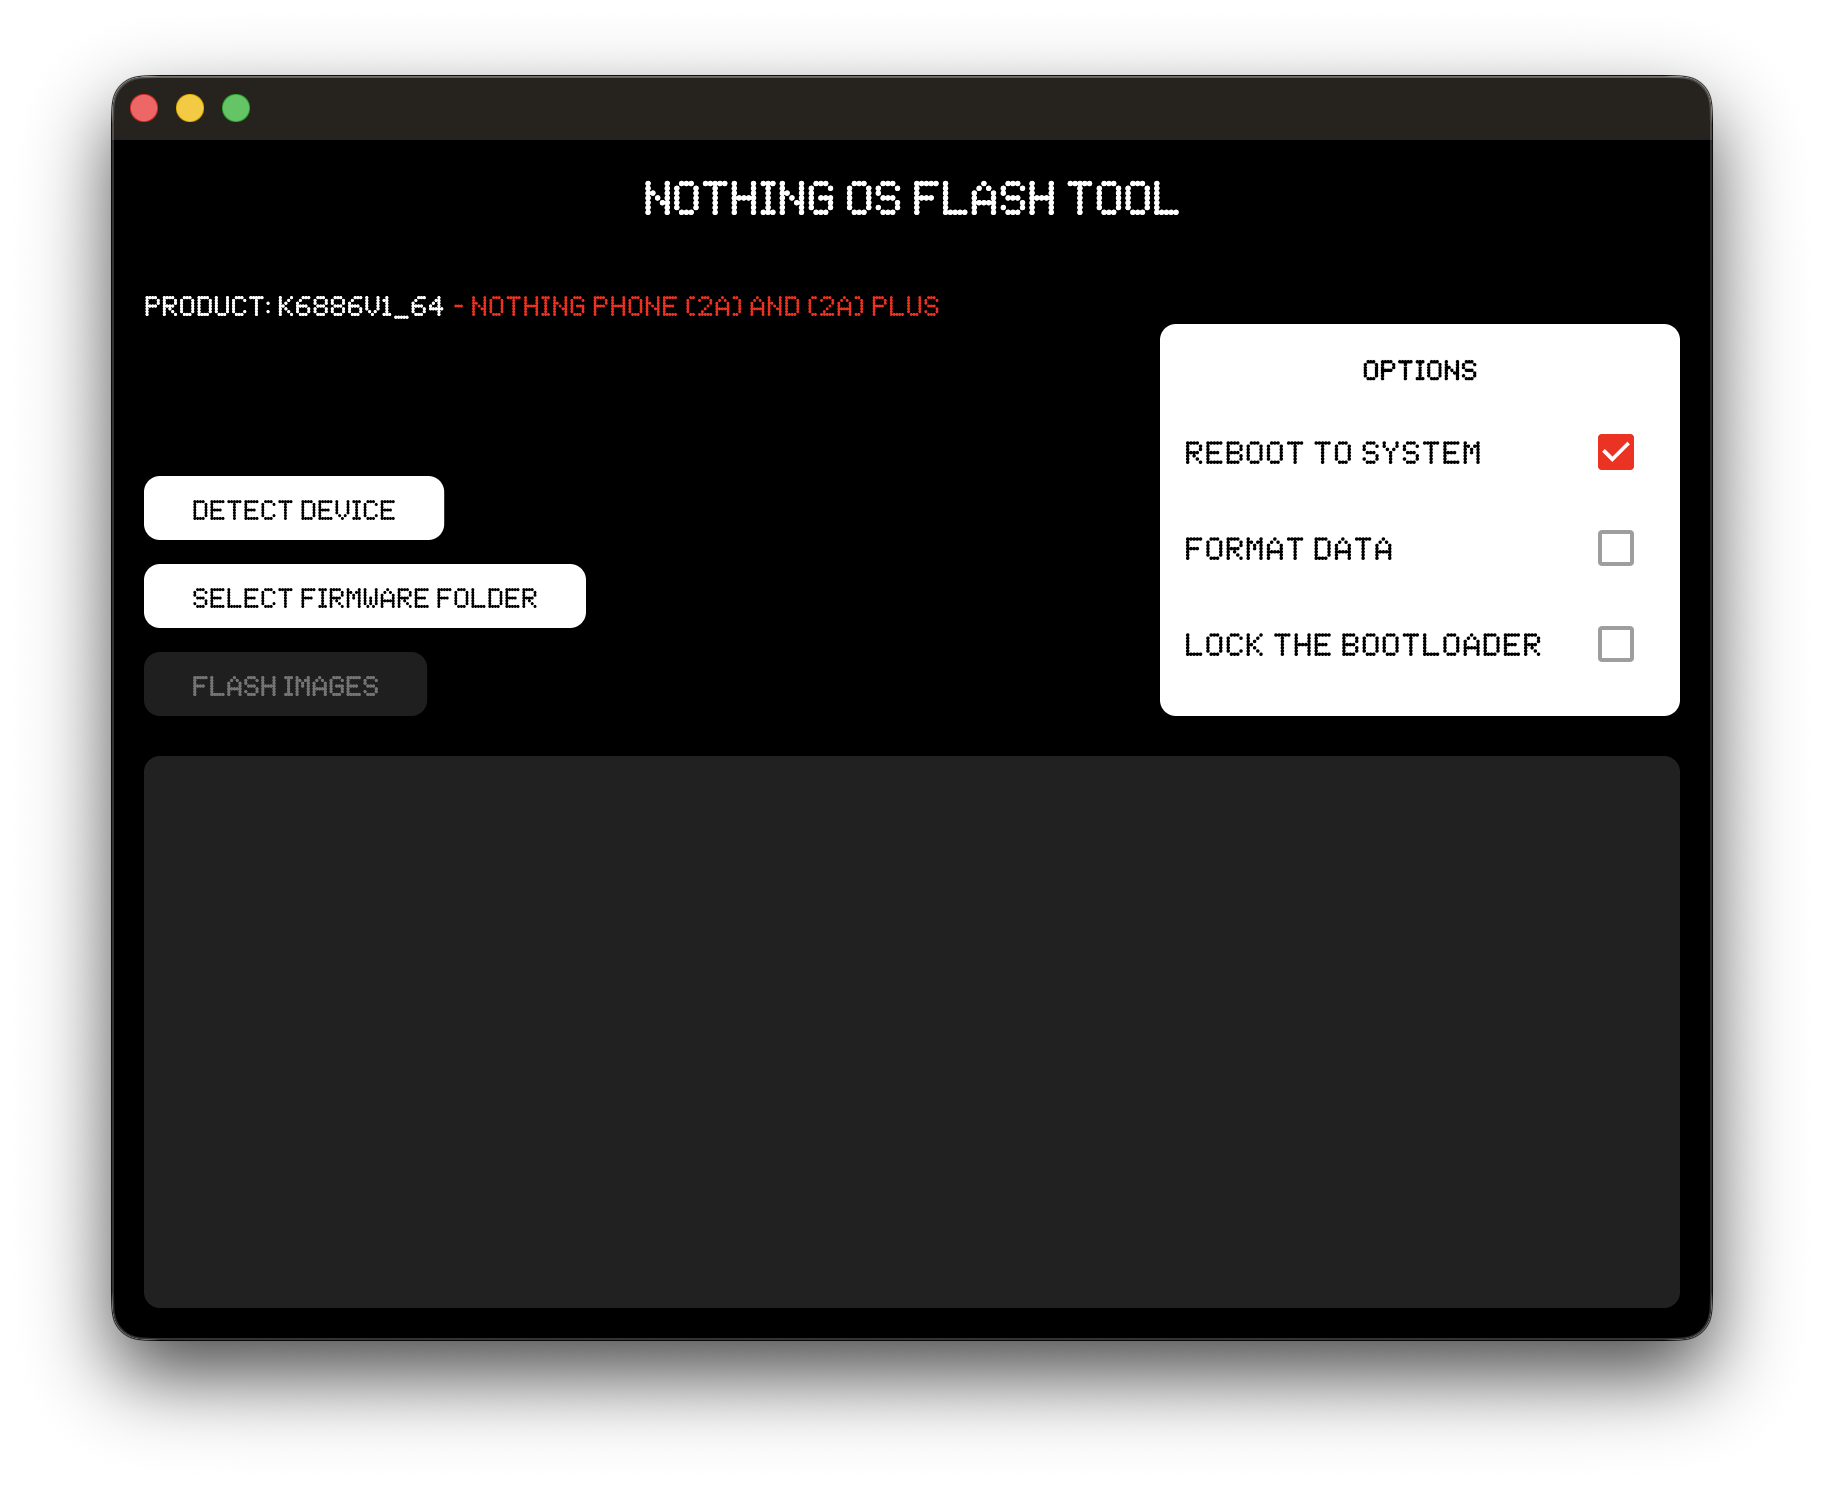
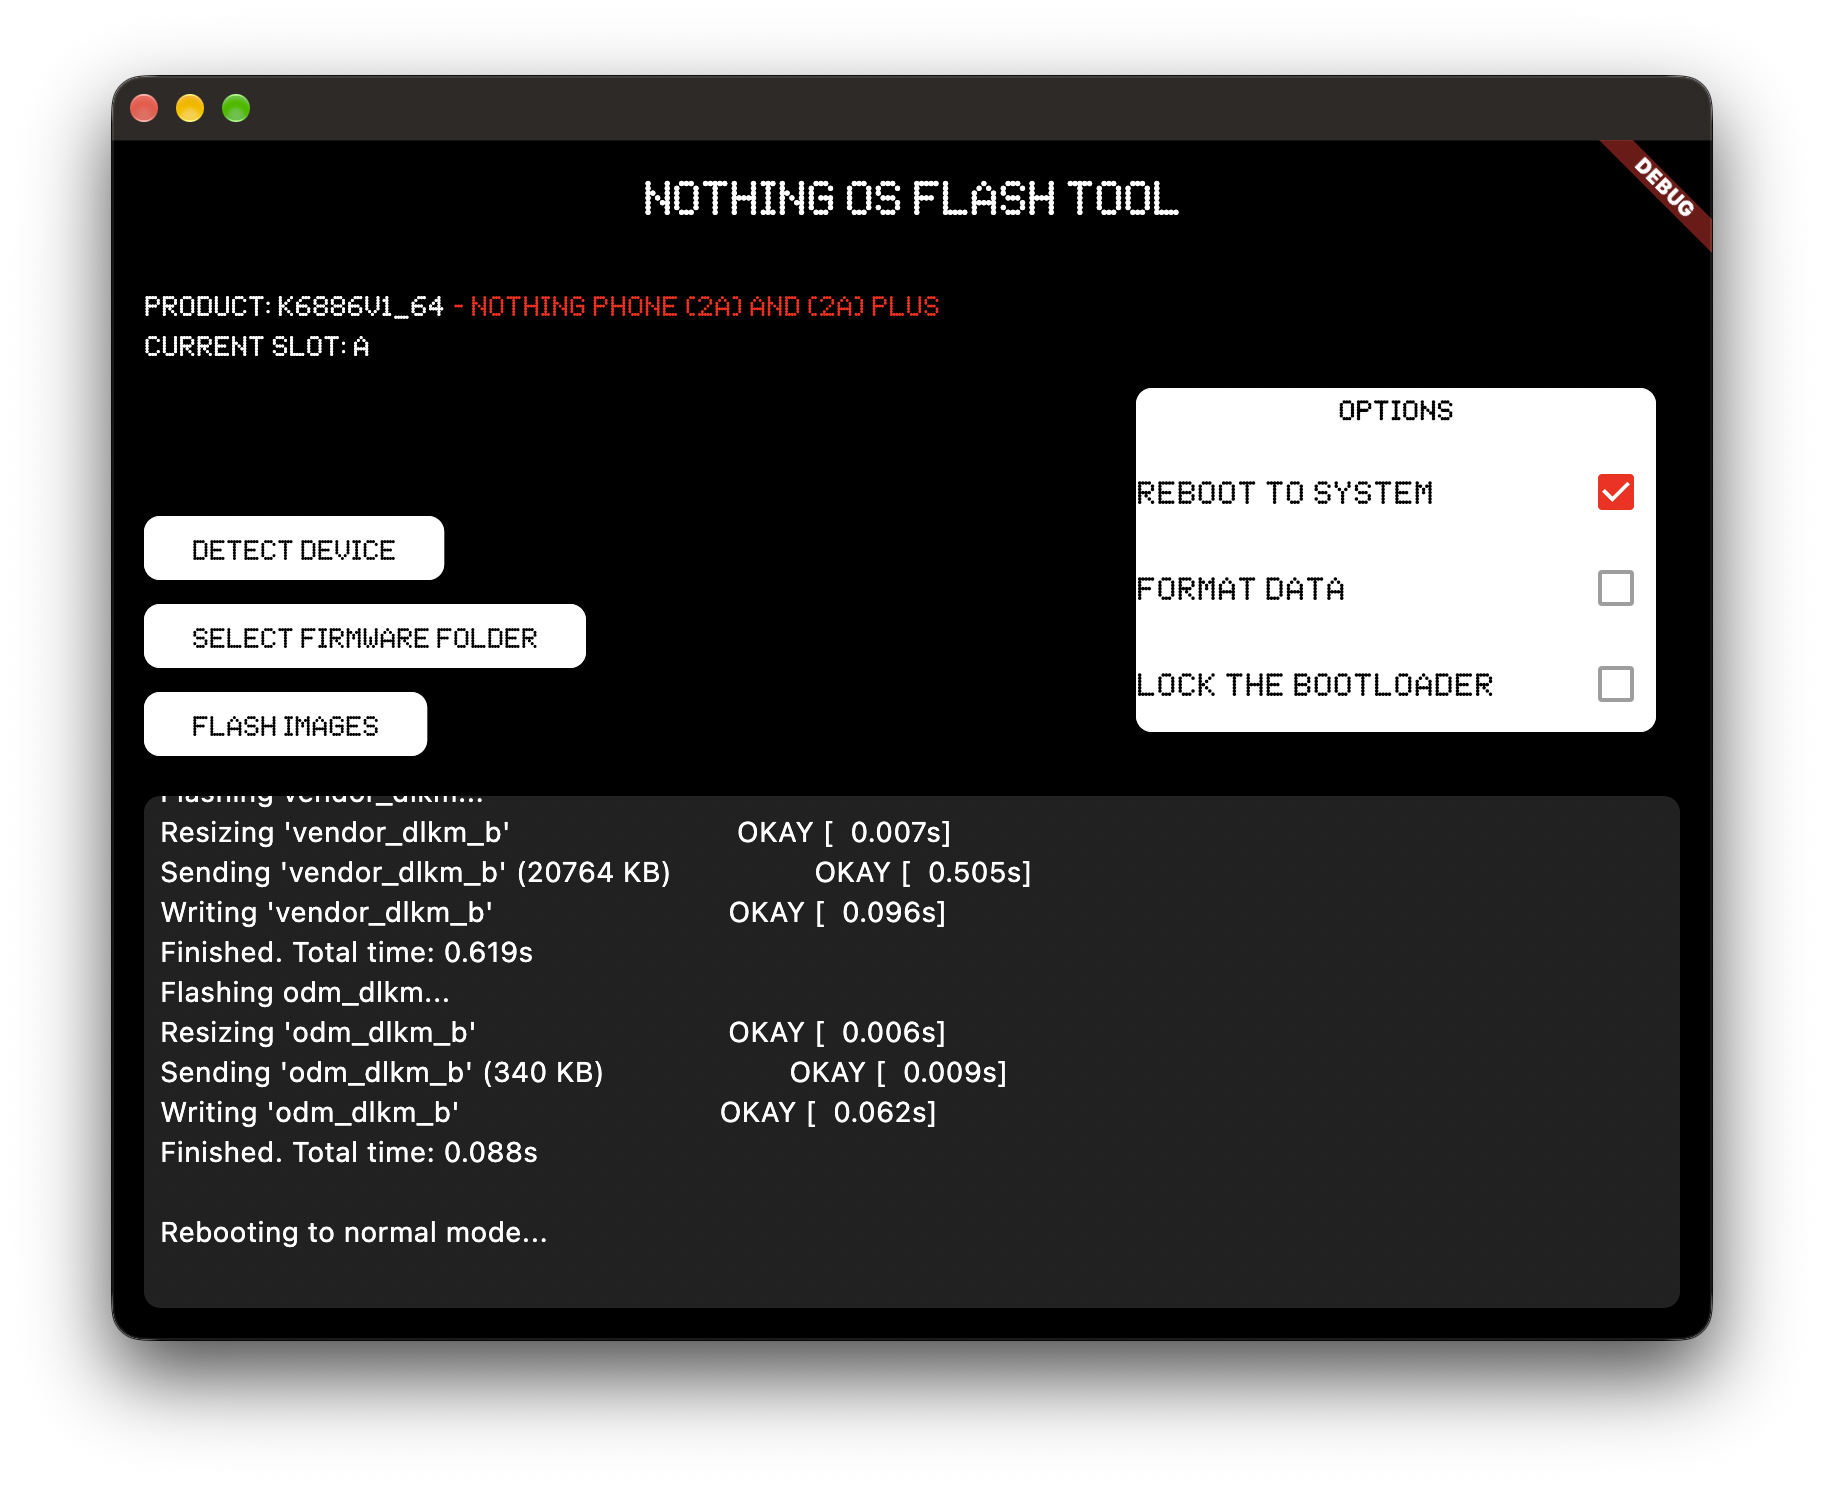
README.md: Update documentation for slot detection and supported devices.

diff --git a/README.md b/README.md
@@ -21,7 +21,7 @@ factory image archive directory and then press on flash images button and let th
 
 Additionnally, you can choose if you want to reboot to system, format data or lock the bootloader as options.
 
-Do note that this tool will only flash partitions to your current [A/B slot](https://source.android.com/docs/core/ota/virtual_ab), if you want to flash both slots, please switch to the opposite slot afterwards.
+Do note that this tool will flash partitions to both of your [A/B slot](https://source.android.com/docs/core/ota/virtual_ab).
 
 ## Supported Nothing and CMF devices
 
@@ -38,6 +38,7 @@ Currently, all Nothing and CMF devices running NothingOS are supported by this t
  - Nothing Phone (3a) Lite
  - Nothing Phone (4a)
  - Nothing Phone (4a) Pro
+ - Nothing Phone (4b)
 
  ### CMF devices
  - CMF Phone 1
